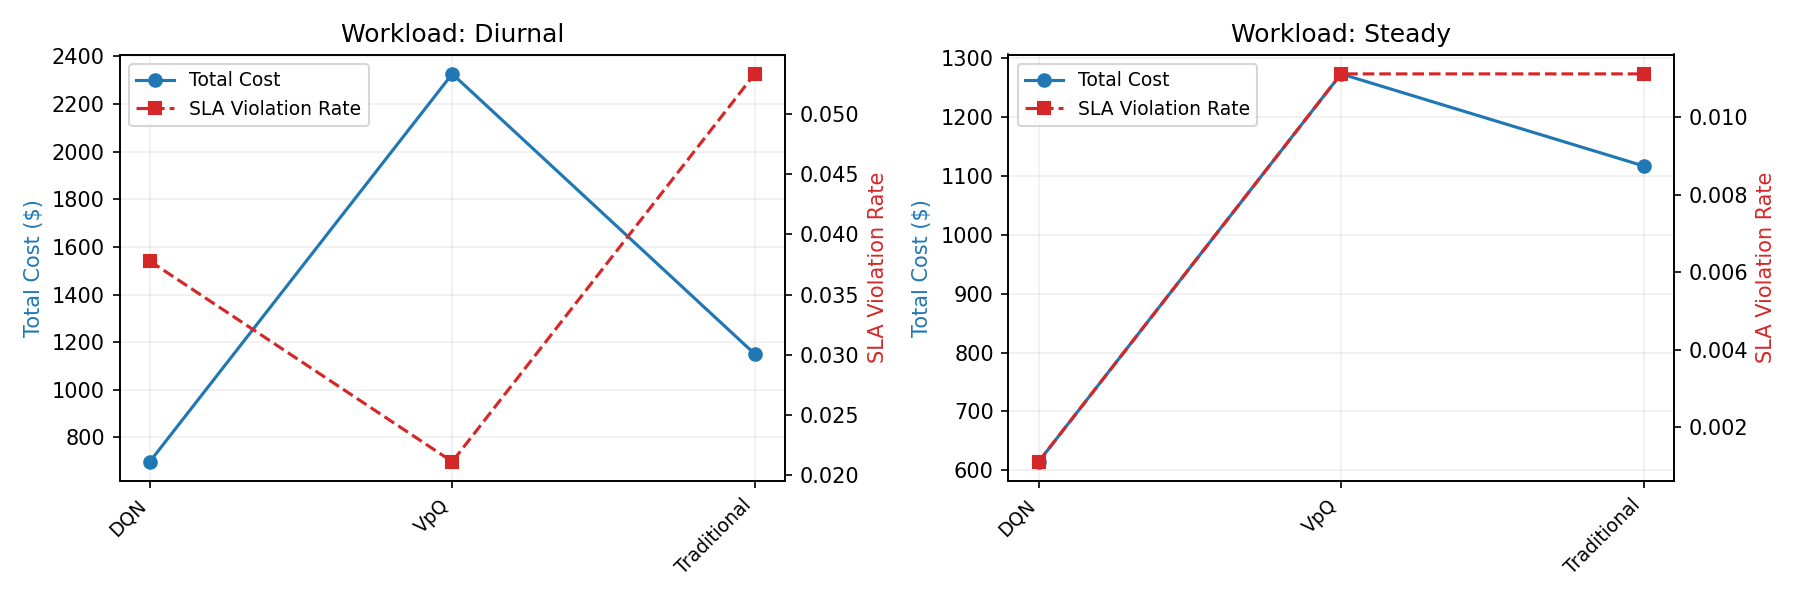
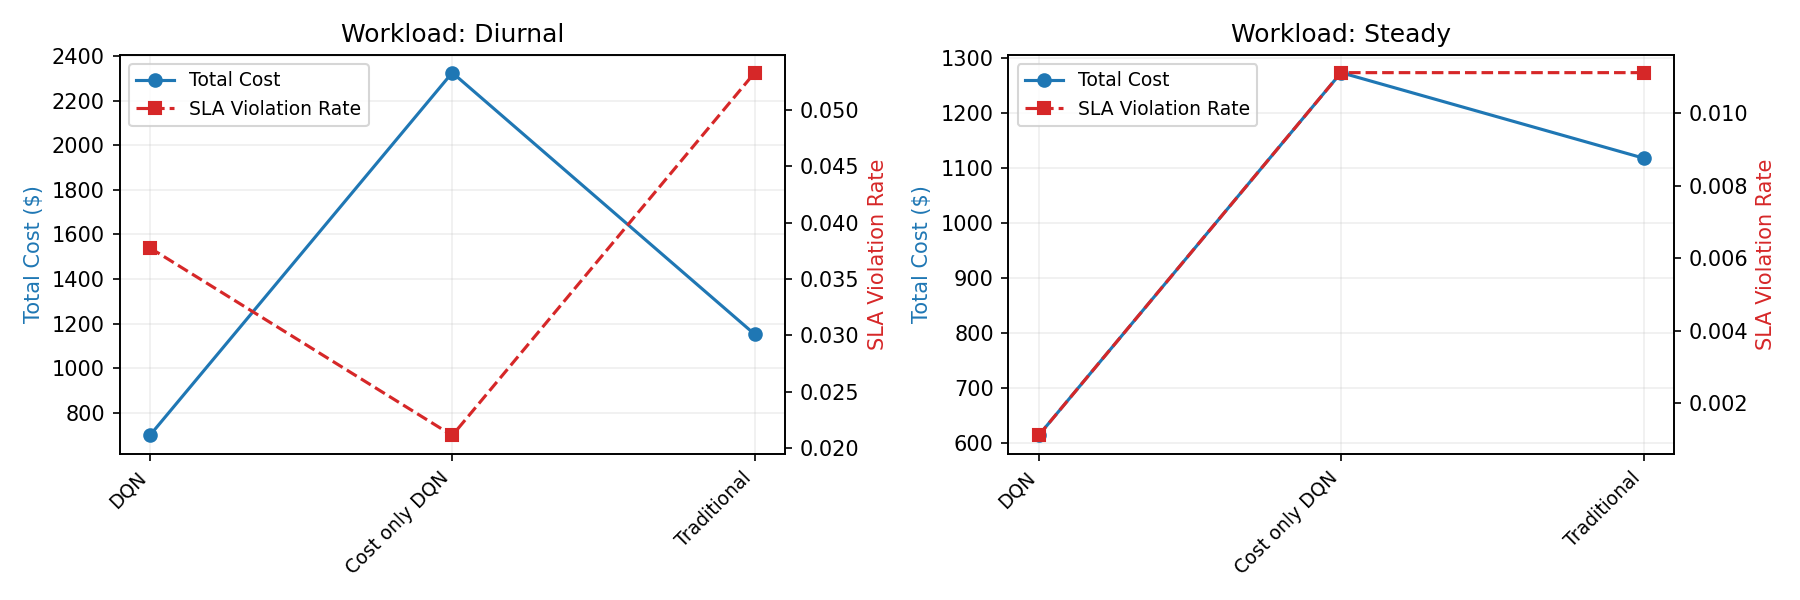
Update evaluation script and visual outputs
- Changed display name for the hybrid approach in the evaluation script to "Cost only DQN" for clarity.
- Updated binary files for performance trade-offs and cost comparison visual outputs.
- Modified .DS_Store and related cache files.

diff --git a/rl/evaluate.py b/rl/evaluate.py
@@ -461,7 +461,7 @@ class ComprehensiveEvaluator:
         display_name_map = {
             "cost_optimized": "DQN",
             "reliability_optimized": "Traditional",
-            "hybrid": "VpQ"
+            "hybrid": "Cost only DQN",
         }
 
         for i, workload_type in enumerate(workload_types):
